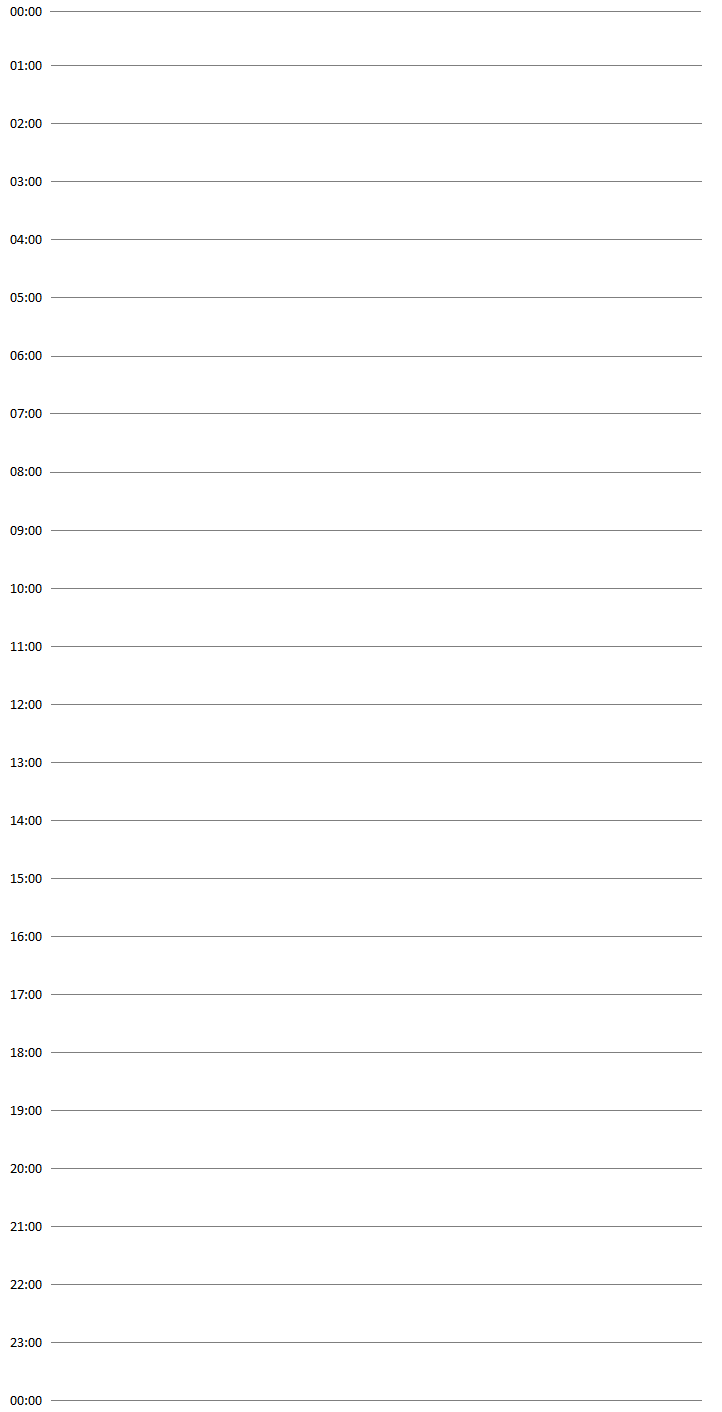
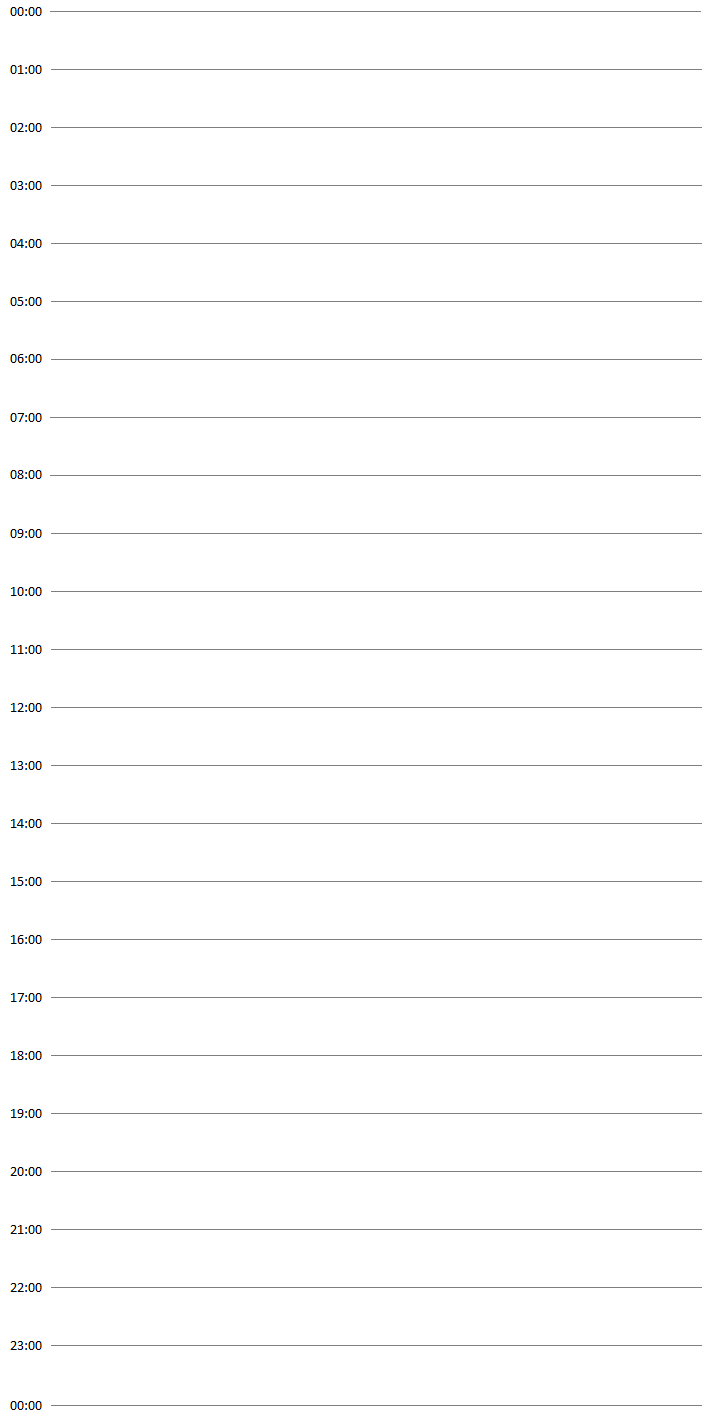
Fixed intervals drawig

diff --git a/App/Containers/HourListView.js b/App/Containers/HourListView.js
@@ -20,12 +20,7 @@ class HourListView extends React.Component {
     * Usually this should come from Redux mapStateToProps
     * USING IT FROM REDUX
     *************************************************************/
-    const dataObjects = [
-          {title: 'Event2', startDate: '19 May 2017 00:00', endDate: '19 May 2017 03:10'},
-          {title: 'Event1', startDate: '19 May 2017 05:00', endDate: '19 May 2017 06:00'},
-          {title: 'Event3', startDate: '19 May 2017 07:00', endDate: '19 May 2017 09:00'},
-          {title: 'Event3', startDate: '19 May 2017 22:00', endDate: '20 May 2017 00:00'}
-    ]
+    
 
     /* ***********************************************************
     * STEP 2
@@ -54,36 +49,23 @@ class HourListView extends React.Component {
     return <MyCustomCell title={rowData.title} description={rowData.description} />
   *************************************************************/
   renderRow (rowData) {
+    // meeting ne moraju biti sortirani, nema iscrtavanja praznih view-ova
+    // radi i za eventove koji pocinju u jednom a zavrsavaju u drugom danu
     var startTime = new Date(rowData.start_time)
     var endTime = new Date(rowData.end_time)
-    var dif = startTime.getTime() - this.lastEnd.getTime()
-    dif = dif / (1000 * 60) - 2
-    dif = dif / 24 / 60 * 100
-    var event = endTime.getTime() - startTime.getTime()
-    event = event / (1000 * 60)
-    event = event / 24 / 60 * 100
-    this.lastEnd = endTime
-    this.numOfEvents--
-    if (this.numOfEvents === 0) {
-      var end = new Date('25 May 2017 00:00')
-      end = end.getTime() - endTime.getTime()
-      end = end / (1000 * 60) - 2
-      end = end / 24 / 60 * 100
-      return (
-        <View style={{flex: dif + event + end}}>
-          <View style={{flex: dif, opacity: 0.1}} />
-          <Text style={{flex: event, backgroundColor: 'rgba(255,0,0,0.2)'}}>{rowData.title}</Text>
-          <View style={{flex: end, opacity: 0.1}} />
-        </View>
-      )
-    } else {
-      return (
-        <View style={{flex: dif + event}}>
-          <View style={{flex: dif, opacity: 0.4}} />
-          <Text style={{flex: event, backgroundColor: 'rgba(255,0,0,0.2)'}}>{rowData.title}</Text>
-        </View>
-      )
-    }
+    console.log('Start time: ' + startTime)
+    console.log('End time: ' + endTime)
+    var dif = new Date('24 May 2017 00:00:00')  // ovo dif Date treba da bude trenutno selektovani datum
+                                                // uzela sam 24.5 zato sto su nam svi intervali tog datuma
+    dif = (startTime.getTime() - dif.getTime()) / 3600000
+
+    var event = (endTime.getTime() - startTime.getTime()) / 3600000
+    // 58 je visina jednog sata, odnosno visina izmedju dvije iscrtane linije na pozadniskoj slici
+    // dif je start time u satima, npr za 15:30 dif je 15.5 -> dif * visina jednog sata odvaja tacno do pocetka meetinga
+    // isto za event * 58 -> trajanje meetinga
+    return (
+      <View style={{backgroundColor: 'red', opacity: 0.2, position:'absolute', height: event * 58, top: dif * 58, left: 0, right: 0}}><Text>{rowData.title}</Text></View>
+    )
   }
 
   /* ***********************************************************

diff --git a/App/Containers/Styles/ListviewExampleStyles.js b/App/Containers/Styles/ListviewExampleStyles.js
@@ -9,8 +9,8 @@ export default StyleSheet.create({
   },
   listContainerContent: {
     flex: 1,
-    marginTop: 9,
-    marginBottom: 10,
+    marginTop: 11,
+    marginBottom: 20,
     marginLeft: 50
   },
   row: {
